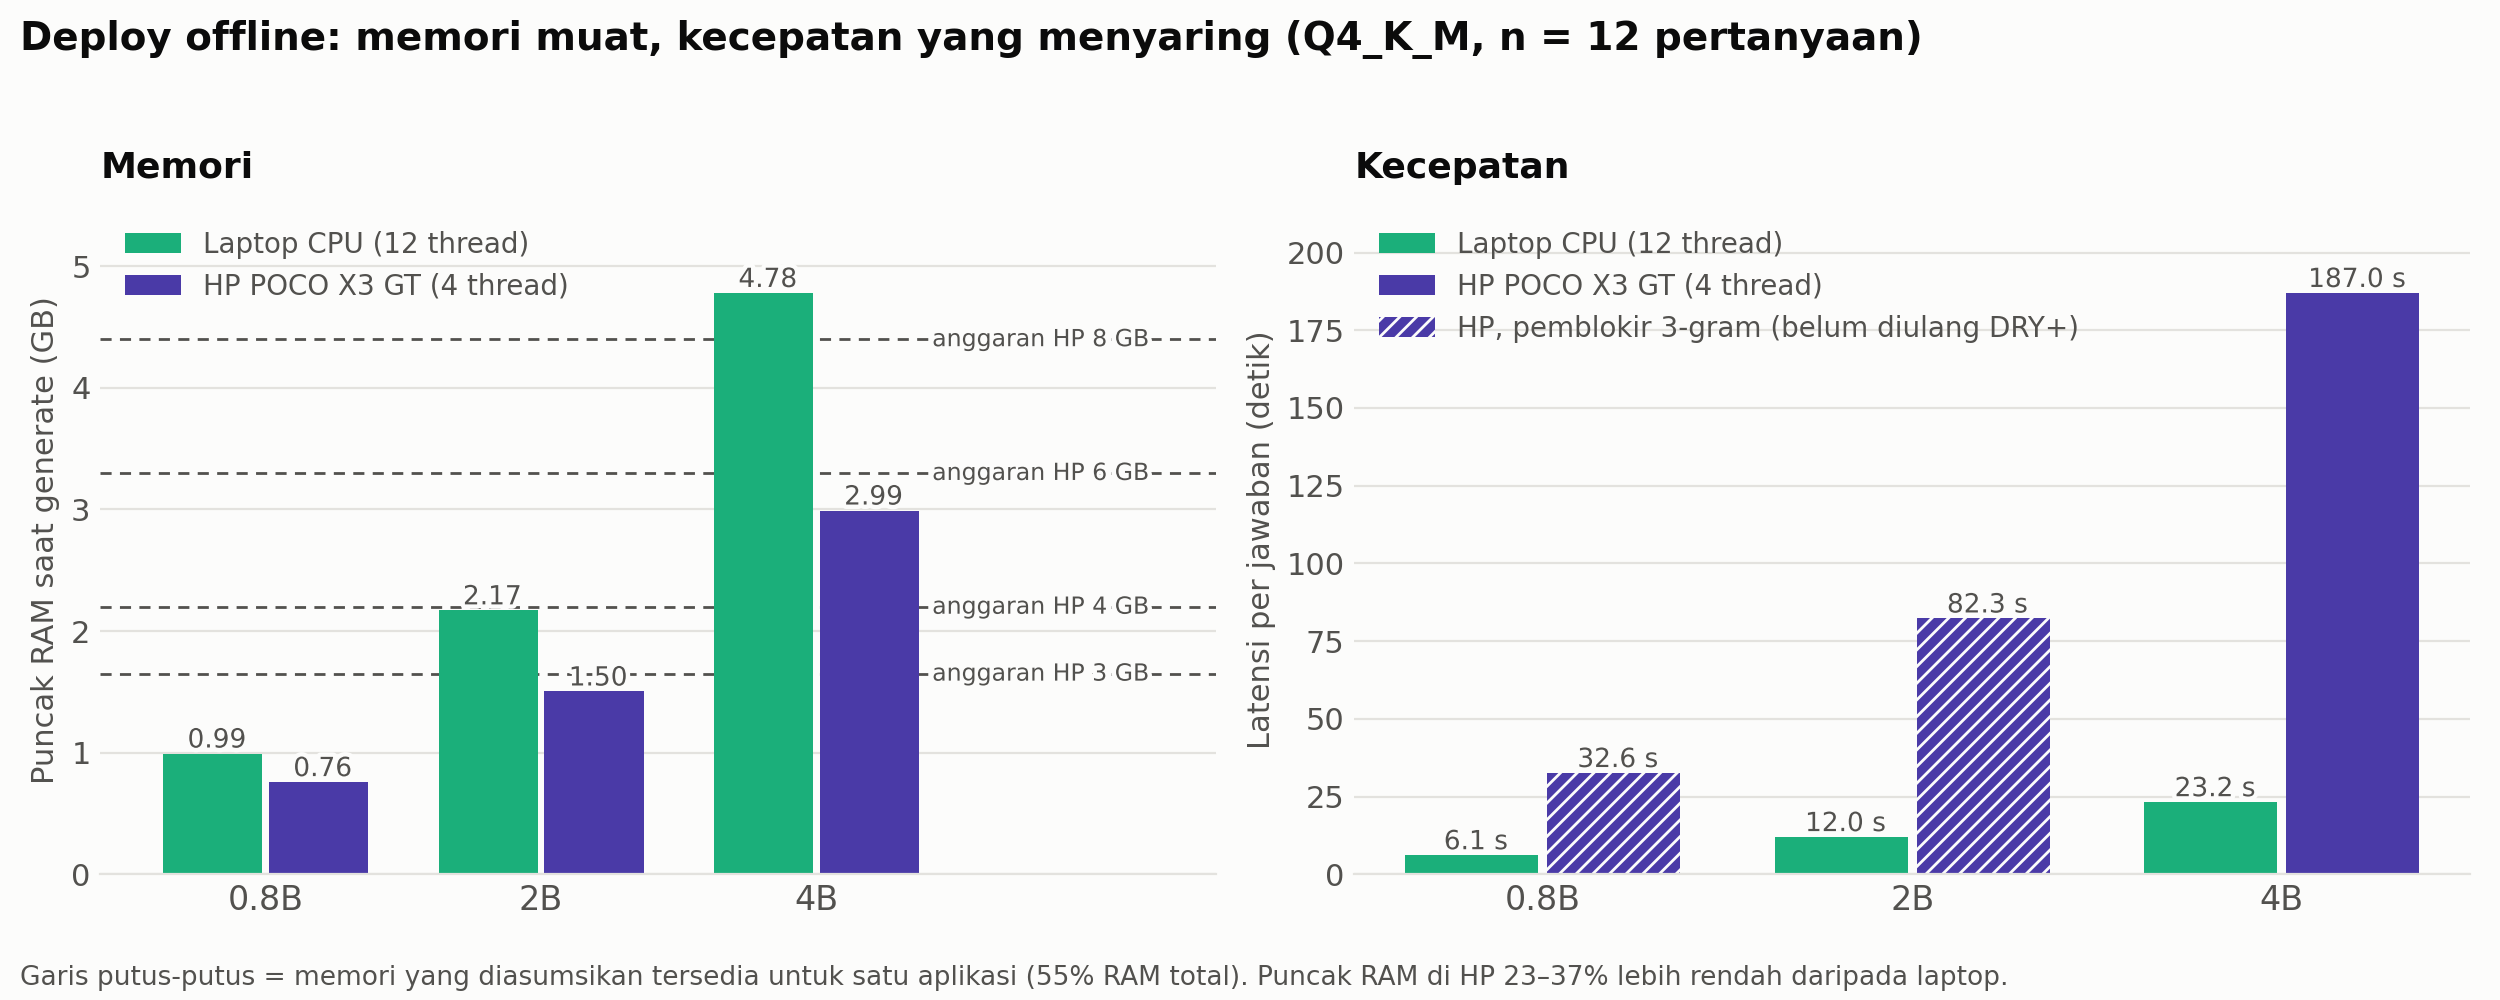
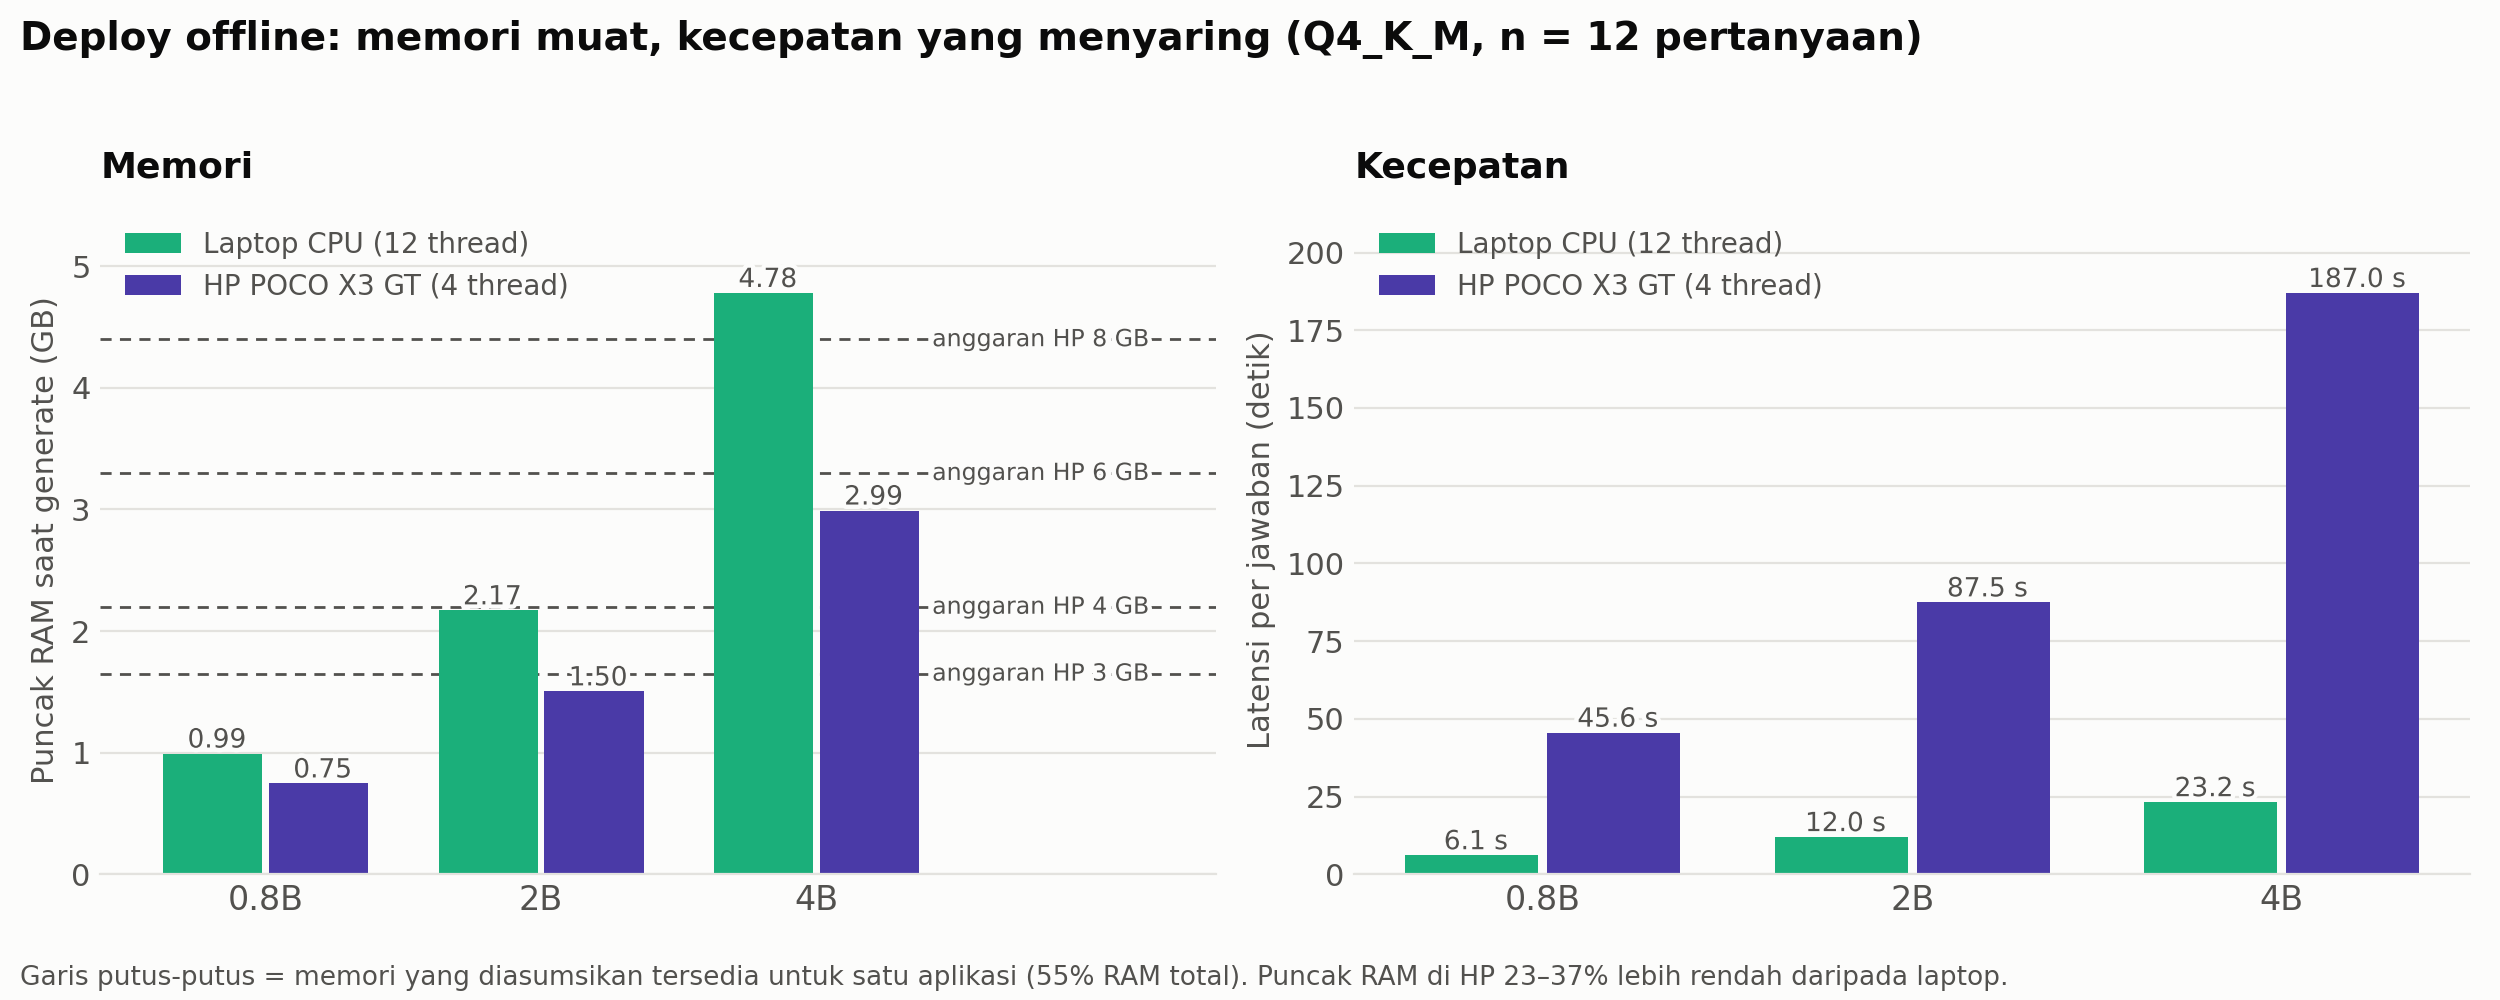
RQ3 di HP selesai dengan DRY+, dan judul serta abstrak untuk JUTIF
Run HP 0.8B dan 2B diulang dengan dry_plus, sama dengan laptop dan 4B.
RAM tidak berubah (0,75 / 1,50 GB). Latensi 0.8B naik 32,6 -> 45,6 dtk
karena jawaban lebih panjang (241 -> 310 token), bukan lebih lambat;
2B 82,3 -> 87,5 dtk. Tabel, teks, dan grafik RQ3 diperbarui, arsir pada
grafik hilang, dan kalimat tentang pemblokir 3-gram di HP dihapus.

Judul dipersingkat ke 17 kata dan abstrak ke 244 kata untuk batas JUTIF
(18 kata / 250 kata). Tidak ada angka yang diubah.

Claude-Session: https://claude.ai/code/session_01KmohgALwFecqPmiKE9yrEn

Changed region(s): [[0.7488, 0.558, 0.8424, 0.868], [0.5928, 0.713, 0.6864, 0.868], [0.5304, 0.31, 0.8424, 0.341]]

diff --git a/results_bench_hp/STATUS.md b/results_bench_hp/STATUS.md
@@ -6,30 +6,29 @@ TP1A.220624.014), MediaTek Dimensity 1100 (MT6891Z/CZA), 4× Cortex-A55 @2,0 GHz
 kernel 4.14.186. Benchmark memakai `--threads 4`.
 Rincian: `spek_perangkat.txt`.
 
-## Yang sudah diukur
+## Yang sudah diukur — RQ3 SELESAI
 
-| Model | Protokol | Puncak RAM | Latensi | tok/dtk | Berkas di repo |
-|---|---|---:|---:|---:|---|
-| 0.8B | token-3 | 0,76 GB | 32,6 dtk | 7,6 | `bench_0.8b.json` |
-| 2B | token-3 | 1,50 GB | 82,3 dtk | 3,1 | `bench_2b.json` |
-| 4B | **dry_plus** | 2,99 GB | 187,0 dtk | 1,32 | `bench_4b.json` |
+Ketiga ukuran memakai protokol yang sama dengan laptop (`dry_plus`).
 
-Ketiganya **selesai tanpa dimatikan Android**, termasuk 4B. Puncak RAM di HP lebih
-rendah daripada laptop di semua ukuran, dan selisihnya MELEBAR seiring model:
-23% (0.8B), 31% (2B), 37% (4B). Akibatnya 4B LOLOS gerbang HP 6 GB, padahal
-pengukuran laptop menyatakan gagal di semua kelas. Yang menyingkirkan 4B dari
-kelas sasaran sekarang bukan cuma memori, melainkan 187 detik per jawaban.
+| Model | Protokol | Puncak RAM | Latensi | tok/dtk | Token rata-rata | Diukur |
+|---|---|---:|---:|---:|---:|---|
+| 0.8B | dry_plus | 0,75 GB | 45,6 dtk | 8,0 | 310 | 2026-09-25 |
+| 2B | dry_plus | 1,50 GB | 87,5 dtk | 3,1 | 268 | 2026-09-25 |
+| 4B | dry_plus | 2,99 GB | 187,0 dtk | 1,3 | 249 | 2026-09-20 |
 
-## Yang belum
+Ketiganya **selesai tanpa dimatikan Android**. Puncak RAM di HP lebih rendah
+daripada laptop di semua ukuran, dan selisihnya MELEBAR seiring model: 25% (0.8B),
+31% (2B), 37% (4B). 4B lolos gerbang HP 6 GB; yang menyingkirkannya dari kelas
+sasaran adalah 187 detik per jawaban.
 
-1. **Ulang 0.8B dan 2B dengan DRY+.** Keduanya memakai pemblokir 3-gram,
-   sementara laptop memakai DRY+. Puncak RAM tidak terpengaruh, tapi latensi dan
-   throughput HP jadi sedikit optimistis (di laptop DRY+ 8% lebih lambat pada 0.8B).
-   Naskah sudah menyebut ketidaksamaan ini apa adanya, jadi ini bukan penghalang
-   publikasi — hanya perapian. 4B sudah dry_plus.
-2. **Quantization gap** Q4_K_M vs 16-bit: belum diukur sama sekali.
+**Run lama 0.8B/2B (pemblokir 3-gram, 2026-09-20) sudah digantikan.** RAM-nya sama
+(0,76 / 1,50 GB). Latensi 0.8B naik 32,6 → 45,6 dtk karena jawaban DRY+ lebih panjang
+(241 → 310 token), bukan karena lebih lambat (7,6 → 8,0 tok/dtk); 2B 82,3 → 87,5 dtk.
 
-## Lanjutkan di sini
+*Quantization gap* Q4_K_M vs 16-bit juga sudah diukur (laptop, `results/quant_gap/`).
+
+## Arsip: perintah yang dipakai untuk run DRY+ 0.8B/2B
+
 
 Sisa: ulang 0.8B dan 2B dengan `--decoding dry_plus` (4B sudah). Tempel apa adanya.
 
